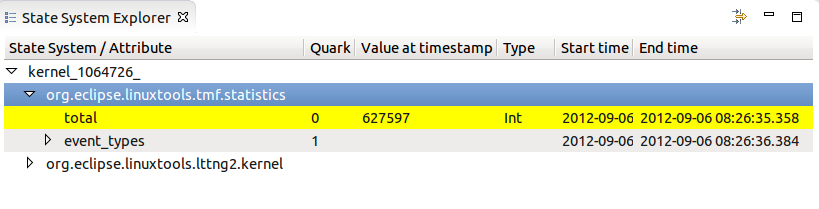
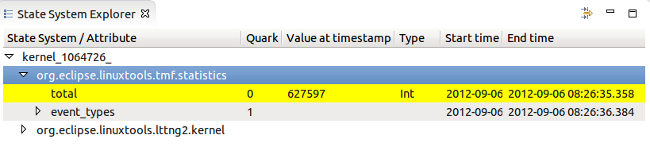
Properly scale LTTng images for 2.1.

diff --git a/new/2.1/new.html b/new/2.1/new.html
@@ -220,7 +220,7 @@ regeneration of the documentation in Libhover binary format.
             Refer to the <a href="http://wiki.eclipse.org/index.php/Linux_Tools_Project/LTTng2/User_Guide#Timestamp_formatting">User Guide</a> 
             for detailed information time format preferences.
             </p>
-            <img width="95%" alt="Time Format Preferences" src="images/lttng_tmfTimestampFormatPage.png"/>
+            <img alt="Time Format Preferences" src="images/lttng_tmfTimestampFormatPage.png"/>
             </td>
         </tr>
         <tr>
@@ -248,7 +248,7 @@ regeneration of the documentation in Libhover binary format.
             Refer to the views sections of the <a href="http://wiki.eclipse.org/index.php/Linux_Tools_Project/LTTng2/User_Guide">User Guide</a>
             for detailed information about this feature.
             </p>
-            <img width="95%" alt="Time Range Selection" src="images/lttng_timeSelection.png"/>
+            <img alt="Time Range Selection" src="images/lttng_timeSelection.png"/>
             </td>
         </tr>
         <tr>
@@ -271,7 +271,7 @@ regeneration of the documentation in Libhover binary format.
             Refer to the <a href="http://wiki.eclipse.org/index.php/Linux_Tools_Project/LTTng2/User_Guide#Control_Flow_View">User Guide</a>
             for detailed information on this view and its usage.
             </p>
-            <img width="95%" alt="Process Flow" src="images/lttng_controlFlowViewArrows.png"/>
+            <img alt="Process Flow" src="images/lttng_controlFlowViewArrows.png"/>
             </td>
         </tr>
         <tr>
@@ -297,7 +297,7 @@ regeneration of the documentation in Libhover binary format.
             Refer to the <a href="http://wiki.eclipse.org/index.php/Linux_Tools_Project/LTTng2/User_Guide#LTTng_Tracer_Control">User Guide</a>
             for detailed information on the LTTng Tracer Control and its usage.
             </p>
-            <img width="95%" alt="Channel Configuration" src="images/lttng_createChannelDialog.png"/>
+            <img alt="Channel Configuration" src="images/lttng_createChannelDialog.png"/>
             </td>
         </tr>
         <tr>
@@ -319,7 +319,7 @@ regeneration of the documentation in Libhover binary format.
             for detailed information on the State System Explorer and its
             usage.
             </p>
-            <img width="95%" alt="State System Explorer" src="images/lttng_highlightedStateSystemExplorer.png"/>
+            <img alt="State System Explorer" src="images/lttng_highlightedStateSystemExplorer.png"/>
             </td>
         </tr>
         <tr>
@@ -340,7 +340,7 @@ regeneration of the documentation in Libhover binary format.
             Refer to the <a href="http://wiki.eclipse.org/index.php/Linux_Tools_Project/LTTng2/User_Guide#Properties_View">User Guide</a>
             for detailed information about the Properties view and displayed trace properties.
             </p>
-            <img width="95%" alt="Trace Properties" src="images/lttng_traceProperties.png"/>
+            <img alt="Trace Properties" src="images/lttng_traceProperties.png"/>
             </td>
         </tr>        
         <tr>
